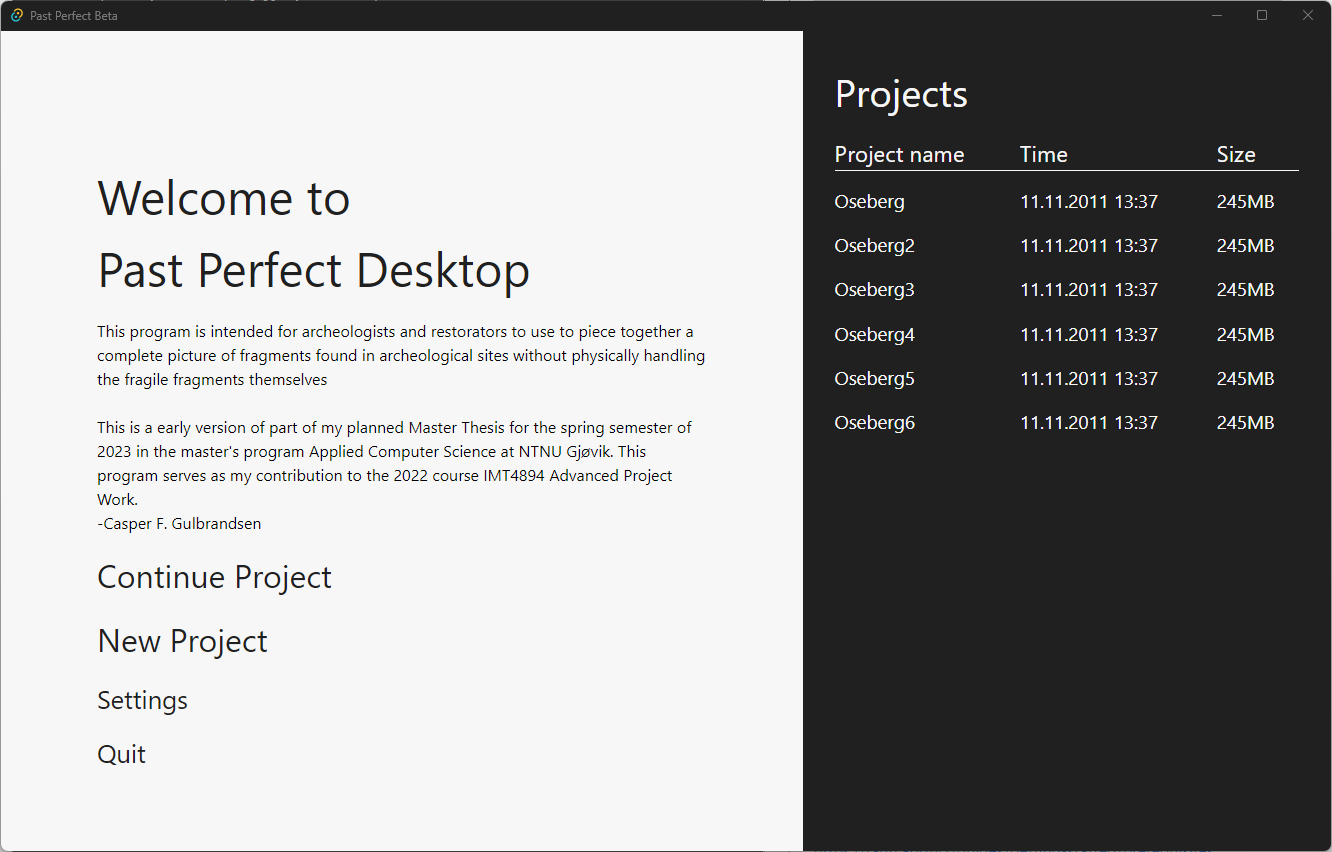
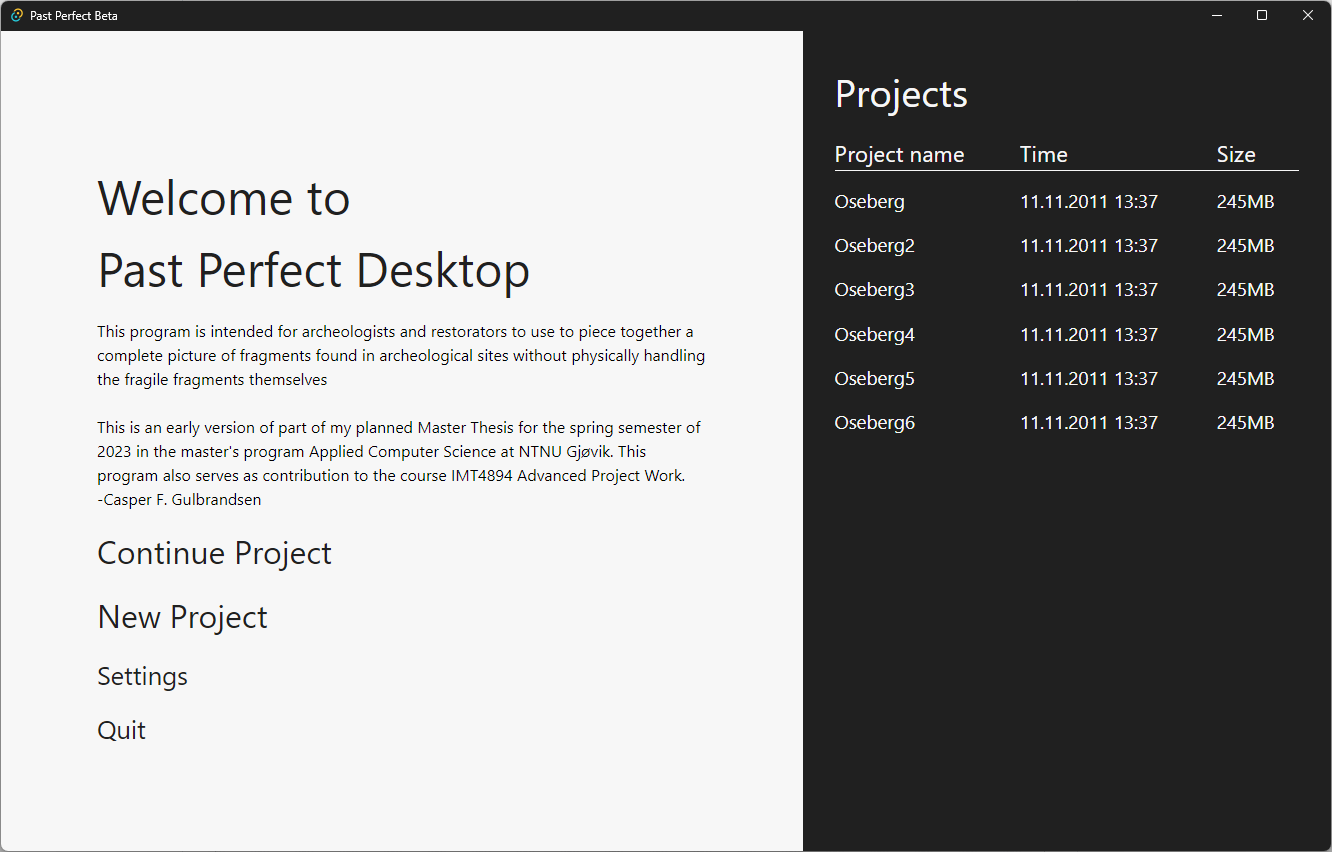
Spelling error

Changed region(s): [[0.0616, 0.5493, 0.5233, 0.9155], [0.1231, 0.4883, 0.5233, 0.5188], [0.0308, 0.0, 0.0923, 0.0305]]

diff --git a/src/pages/LandingPage/LandingPage.jsx b/src/pages/LandingPage/LandingPage.jsx
@@ -16,13 +16,13 @@ const LandingPage = () => {
 				<p>
 					This program is intended for archeologists and restorators to use to
 					piece together a complete picture of fragments found in archeological
-					sites without physically handling the fragile fragments themselves{" "}
+					sites without physically handling the fragile fragments themselves
 					<br />
 					<br />
-					This is a early version of part of my planned Master Thesis for the
+					This is an early version of part of my planned Master Thesis for the
 					spring semester of 2023 in the master's program Applied Computer
-					Science at NTNU Gjøvik. This program serves as my contribution to the
-					2022 course IMT4894 Advanced Project Work.
+					Science at NTNU Gjøvik. This program also serves as contribution to
+					the course IMT4894 Advanced Project Work.
 					<br />
 					-Casper F. Gulbrandsen
 				</p>

diff --git a/README.md b/README.md
@@ -2,10 +2,9 @@
 
 This program is intended for archeologists and restorators to use to piece together a complete picture of fragments found in archeological sites without physically handling the fragile fragments themselves
 
-This is a early version of part of my planned Master Thesis for the
+This is an early version of part of my planned Master Thesis for the
 spring semester of 2023 in the master's program Applied Computer
-Science at NTNU Gjøvik. This program serves as my contribution to the
-2022 course IMT4894 Advanced Project Work.
+Science at NTNU Gjøvik. This program serves as my contribution to the course IMT4894 Advanced Project Work.
 
 ## Author
 
